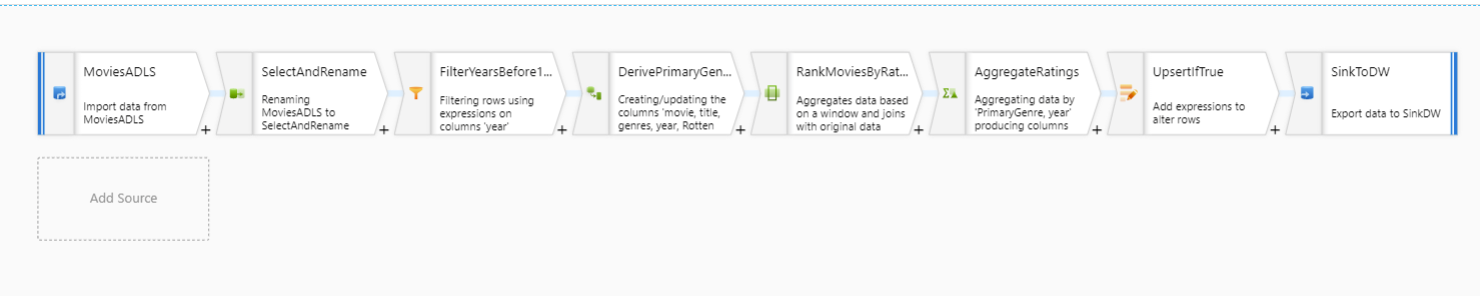
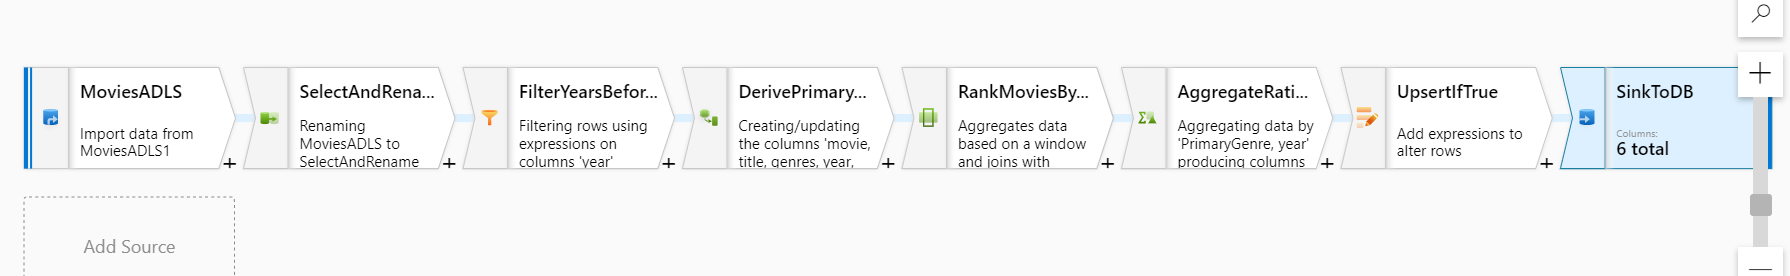
updating labs

diff --git a/MovieAnalytics.md b/MovieAnalytics.md
@@ -158,25 +158,26 @@ Now that you have moved the data into ADLS, you are ready to build a Mapping Dat
 
     ![Upsert](./assets/MovieAnalytics/AlterRow.PNG "Upsert")
 
-1. **Write to a SQL DW Sink** Now that you have finished all your transformation logic, you are ready to write to a Sink.
+1. **Write to a SQL DB Sink** Now that you have finished all your transformation logic, you are ready to write to a Sink.
     1. Add a Sink by clicking on the + icon next to your Upsert transformation and clicking Sink under Destination.
-    1. In the Sink tab, create a new SQL DW dataset via the + New button.
+    1. In the Sink tab, create a new SQL DB dataset via the + New button.
     ![Data Flow](./assets/MovieAnalytics/dataflow6.png)
-    1. Select Azure SQL Data Warehouse from the tile list.
+    1. Select Azure SQL Data Database from the tile list.
     ![Data Flow](./assets/MovieAnalytics/dataflow7.png)
-    1. Select a new linked service and configure your SQL DW connection credentials. Click 'Create' when finished.
+    1. Select a new linked service and configure your SQL DB connection credentials. Click 'Create' when finished.
     ![Data Flow](./assets/MovieAnalytics/dataflow8.png)
     1. In the dataset configuration, select 'Create new table' and enter in your desired table name. Click 'Finish' once completed.
     ![Data Flow](./assets/MovieAnalytics/dataflow9.png)
     1. Since an upsert condition was specified, you need to go to the Settings tab and select 'Allow upsert' based on key columns PrimaryGenre and year.
     ![Sink](./assets/MovieAnalytics/Sink.PNG "Sink")
+
 At this point, You have finished building your 8 transformation Mapping Data Flow. It's time to run the pipeline and see the results!
 
 ![Data Flow Canvas](./assets/MovieAnalytics/DataFlowCanvas.PNG "Data Flow Canvas")
 
 ## Running the Pipeline
 
-Go to the pipeline canvas. Because SQL DW in Data Flow uses [PolyBase](https://docs.microsoft.com/sql/relational-databases/polybase/polybase-guide?view=sql-server-2017), you must specify a blob or ADLS staging folder. In the Execute Data Flow activity's settings tab, open up the PolyBase accordion and select your ADLS linked service and specify a staging folder path.
+Go to the pipeline canvas. In the Execute Data Flow activity's settings tab, you will see the data flow selected and the compute environment used. In this lab, you should use the default 4 core general purpose cluster. 
 
 ![Data Flow](./assets/MovieAnalytics/pipeline1.png)
 
@@ -184,8 +185,10 @@ Before you publish your pipeline, run another debug run to confirm it's working 
 
 ![Full Debug](./assets/MovieAnalytics/FullDebug.PNG "Full Debug")
 
-Once both activities succeeded, you can click on the eyeglasses icon next to the Data Flow activity to get a more in depth look at the Data Flow run.
+You can click on the eyeglasses icon next to the Data Flow activity to get a more in depth look at the Data Flow run. The data flow activity should complete in about one minute.
 
 ![Data Flow Monitoring](./assets/MovieAnalytics/DataFlowMonitoring.PNG "Data Flow monitoring")
 
 If you used the same logic described in this lab, your Data Flow should will written 737 rows to your SQL DW. You can go into [SQL Server Management Studio](https://docs.microsoft.com/sql/ssms/download-sql-server-management-studio-ssms?view=sql-server-2017) to verify the pipeline worked correctly and see what got written.
+
+Once you verify your pipeline is working, publish your changes! Feel free to continue to play around with Azure Data Factory and build your code-free ETL work flows.
